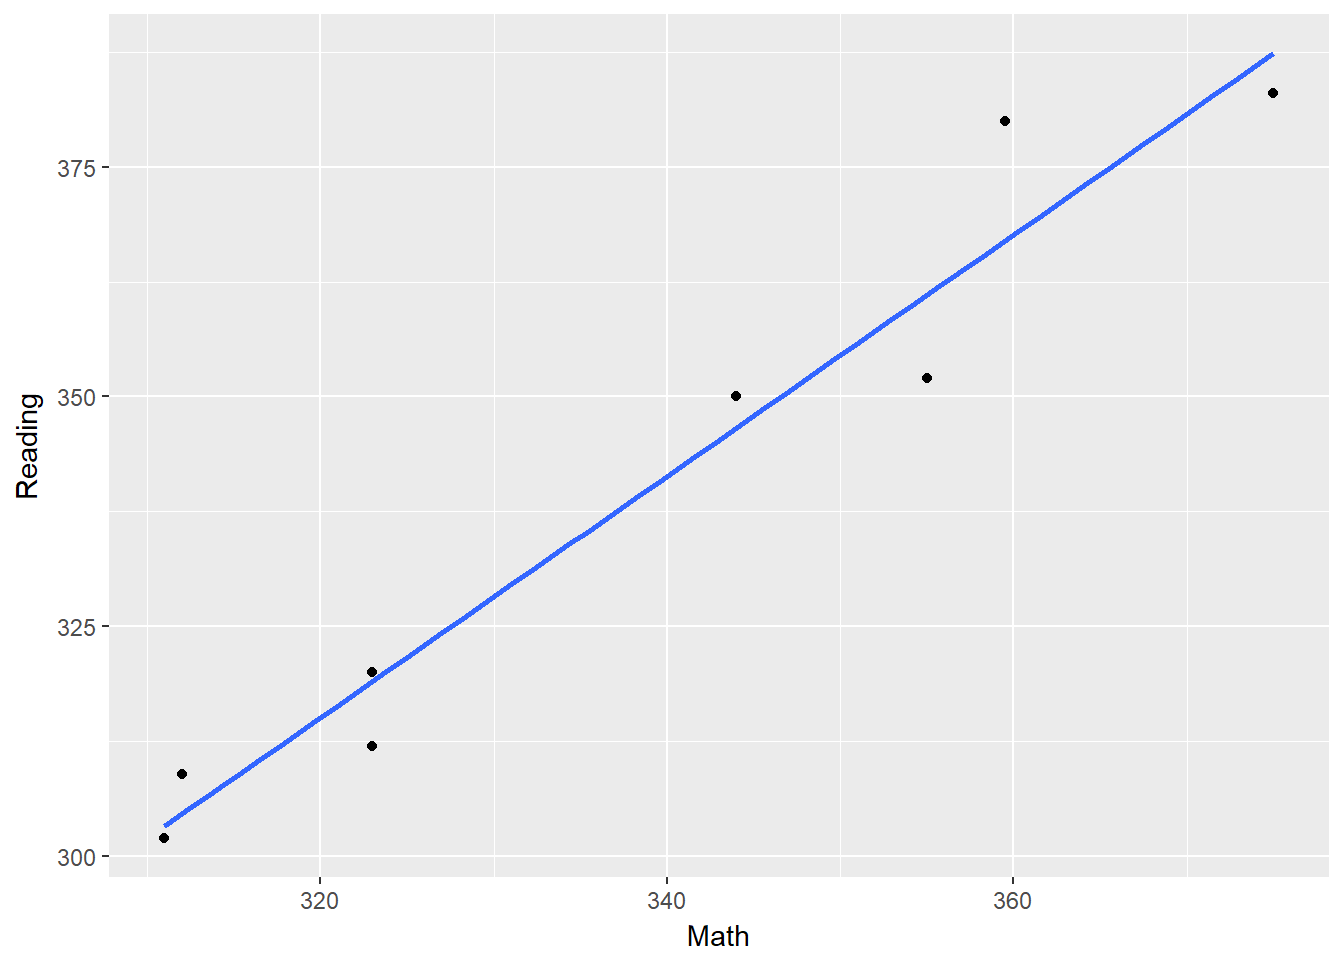
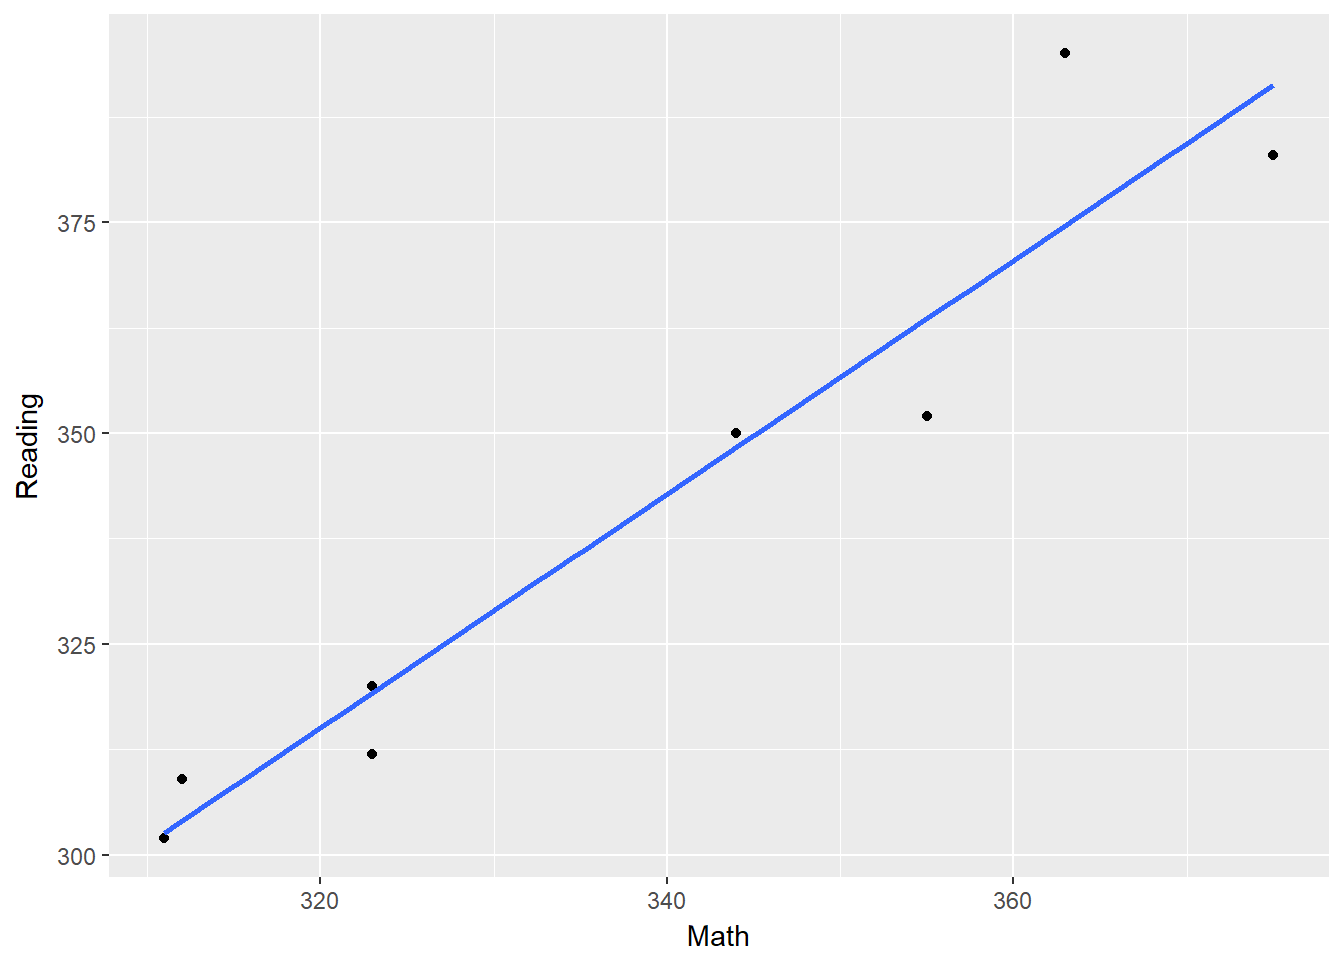
made max instead of mean for pivot post.

diff --git a/content/post/2018-11-22-pivoting-data-in-sql-vs-r.html b/content/post/2018-11-22-pivoting-data-in-sql-vs-r.html
@@ -122,24 +122,24 @@ pivot(
 <p>I think the easiest thing to do, is to just do your aggregation earlier in your pipe chain, and then do your <code>spread()</code> after.</p>
 <pre class="r"><code>testScoreMore %&gt;% 
   group_by(personID, testName, testSubject) %&gt;% 
-  summarize(scaleScore =  mean(scaleScore)) %&gt;% 
+  summarize(scaleScore =  max(scaleScore)) %&gt;% 
   spread(key = testSubject, value = scaleScore)</code></pre>
 <pre><code>## # A tibble: 8 x 4
 ## # Groups:   personID, testName [8]
 ##   personID testName  Math Reading
 ##      &lt;dbl&gt; &lt;chr&gt;    &lt;dbl&gt;   &lt;dbl&gt;
-## 1     1000 MCA-III   344      350
-## 2     1001 MCA-III   323      312
-## 3     1002 MCA-III   375      383
-## 4     1003 MCA-III   311      302
-## 5     1004 MCA-III   355      352
-## 6     1005 MCA-III   323      320
-## 7     1006 MCA-III   312      309
-## 8     1007 MCA-III   360.     380</code></pre>
+## 1     1000 MCA-III    344     350
+## 2     1001 MCA-III    323     312
+## 3     1002 MCA-III    375     383
+## 4     1003 MCA-III    311     302
+## 5     1004 MCA-III    355     352
+## 6     1005 MCA-III    323     320
+## 7     1006 MCA-III    312     309
+## 8     1007 MCA-III    363     395</code></pre>
 <p>Cool! Hey, now that we have columns for each subject, is there a relationship between them?</p>
 <pre class="r"><code>testScoreMore %&gt;% 
   group_by(personID, testName, testSubject) %&gt;% 
-  summarize(scaleScore =  mean(scaleScore)) %&gt;% 
+  summarize(scaleScore =  max(scaleScore)) %&gt;% 
   spread(key = testSubject, value = scaleScore) %&gt;% 
   ggplot(aes(x = Math, y = Reading)) +
   geom_point() +

diff --git a/public/post/pivoting-data-in-sql-vs-r/index.html b/public/post/pivoting-data-in-sql-vs-r/index.html
@@ -166,24 +166,24 @@ pivot(
 <p>I think the easiest thing to do, is to just do your aggregation earlier in your pipe chain, and then do your <code>spread()</code> after.</p>
 <pre class="r"><code>testScoreMore %&gt;% 
   group_by(personID, testName, testSubject) %&gt;% 
-  summarize(scaleScore =  mean(scaleScore)) %&gt;% 
+  summarize(scaleScore =  max(scaleScore)) %&gt;% 
   spread(key = testSubject, value = scaleScore)</code></pre>
 <pre><code>## # A tibble: 8 x 4
 ## # Groups:   personID, testName [8]
 ##   personID testName  Math Reading
 ##      &lt;dbl&gt; &lt;chr&gt;    &lt;dbl&gt;   &lt;dbl&gt;
-## 1     1000 MCA-III   344      350
-## 2     1001 MCA-III   323      312
-## 3     1002 MCA-III   375      383
-## 4     1003 MCA-III   311      302
-## 5     1004 MCA-III   355      352
-## 6     1005 MCA-III   323      320
-## 7     1006 MCA-III   312      309
-## 8     1007 MCA-III   360.     380</code></pre>
+## 1     1000 MCA-III    344     350
+## 2     1001 MCA-III    323     312
+## 3     1002 MCA-III    375     383
+## 4     1003 MCA-III    311     302
+## 5     1004 MCA-III    355     352
+## 6     1005 MCA-III    323     320
+## 7     1006 MCA-III    312     309
+## 8     1007 MCA-III    363     395</code></pre>
 <p>Cool! Hey, now that we have columns for each subject, is there a relationship between them?</p>
 <pre class="r"><code>testScoreMore %&gt;% 
   group_by(personID, testName, testSubject) %&gt;% 
-  summarize(scaleScore =  mean(scaleScore)) %&gt;% 
+  summarize(scaleScore =  max(scaleScore)) %&gt;% 
   spread(key = testSubject, value = scaleScore) %&gt;% 
   ggplot(aes(x = Math, y = Reading)) +
   geom_point() +
